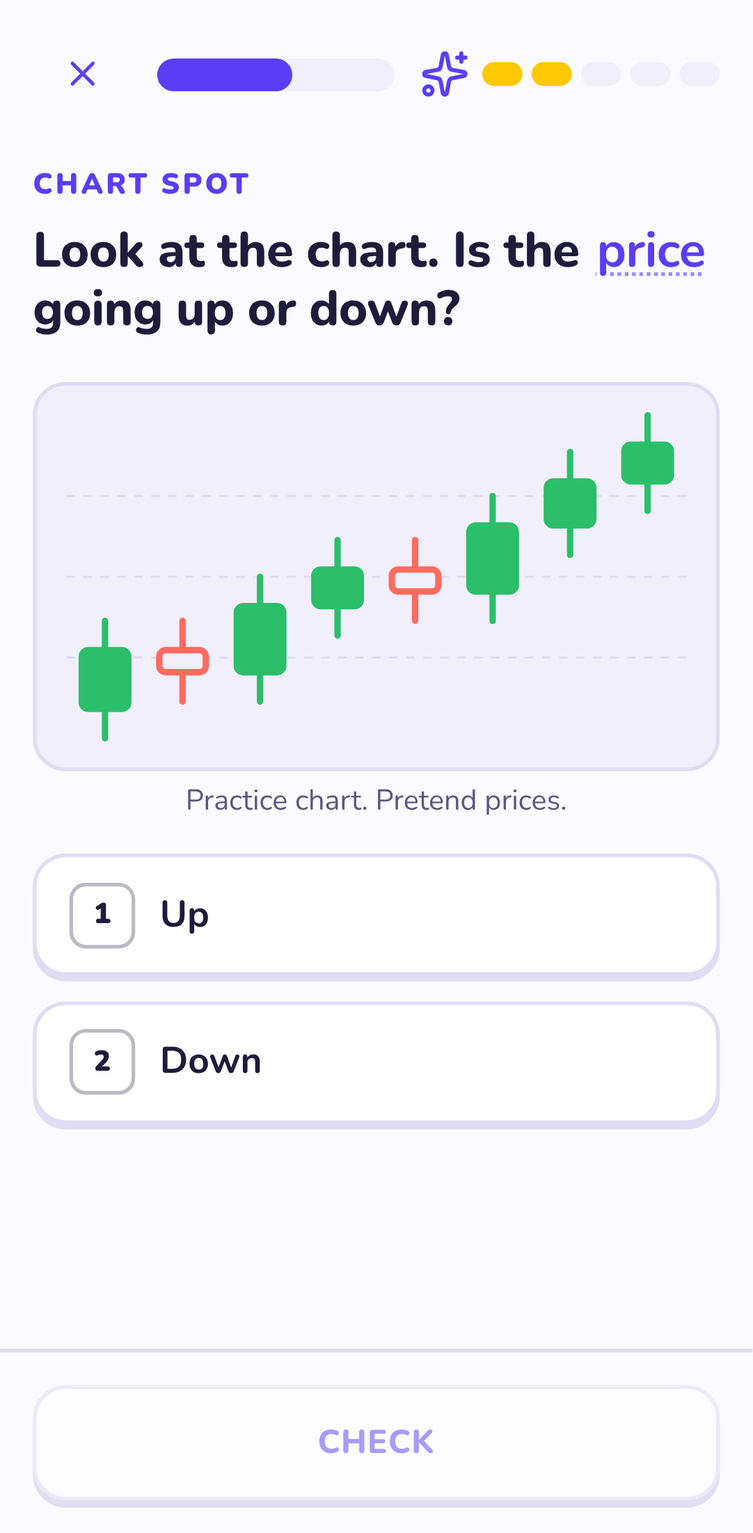
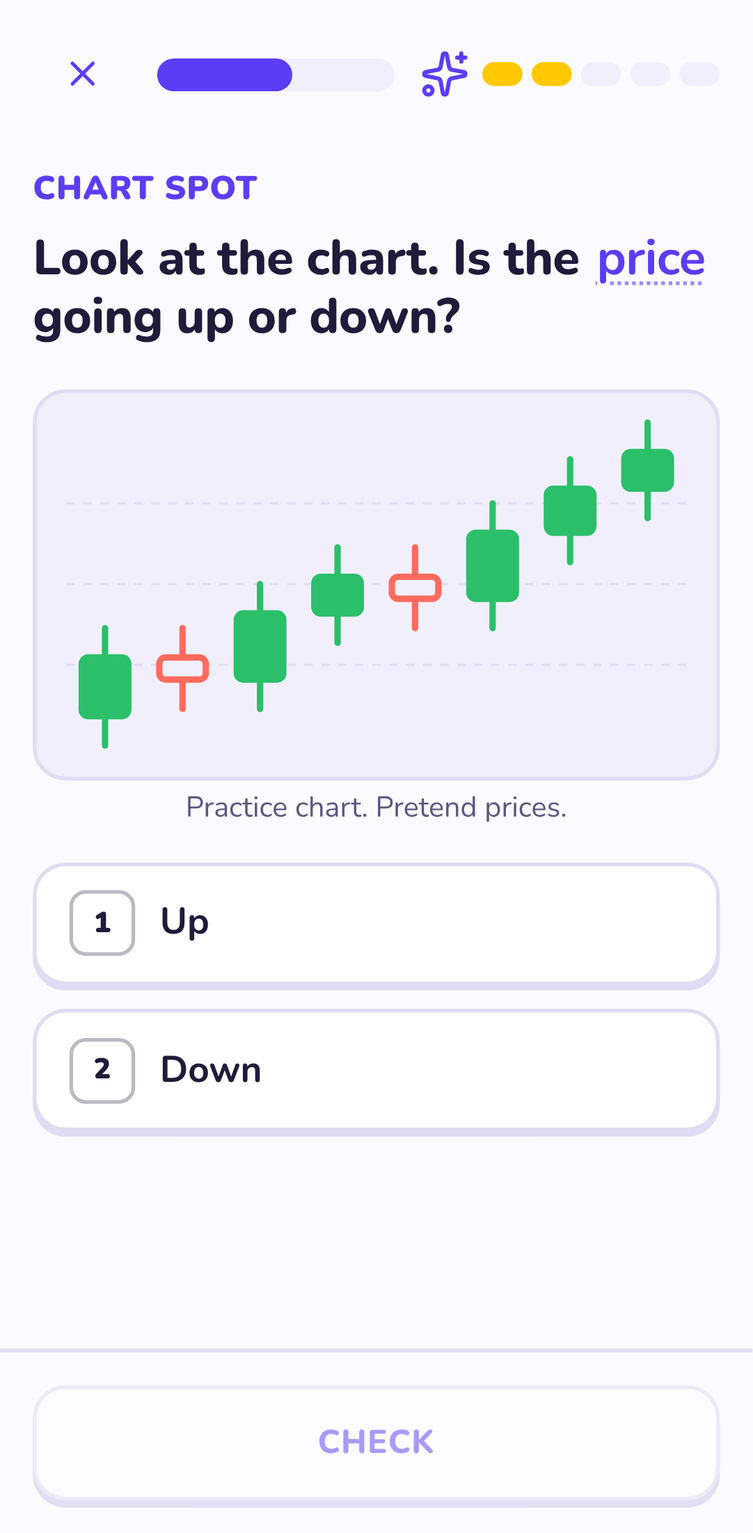
fix(cp1): review fixes, evidence and docs
- Server merges run one at a time; freeze flags are normalised after merging two copies; repair handles them
- Progress bar never moves backwards when a retry is added; question-type label is 18px
- Tap-chart questions capped at 6 candles (schema, audit, canary); Start bubble no longer overlaps
- Taught-in links are 48px tap targets with the period attached
- CP1 evidence in PROGRESS.md, decisions D-020, architecture section 8, refreshed screenshots

Claude-Session: https://claude.ai/code/session_017CWsywmUaWm7ULUuwBmePK

diff --git a/src/lib/progress.test.ts b/src/lib/progress.test.ts
@@ -10,6 +10,7 @@ import {
   longestStreak,
   maybeEarnFreeze,
   mergeProgress,
+  normalizeFreezes,
   sameProgress,
   settleFreezes,
   weekStart,
@@ -248,5 +249,47 @@ describe("dailyGoalFraction / dateKey", () => {
   });
   it("formats local dates", () => {
     expect(dateKey(new Date(2026, 0, 5))).toBe("2026-01-05");
+  });
+});
+
+describe("normalizeFreezes (after merging copies from two devices)", () => {
+  it("a day with XP is never frozen: XP wins", () => {
+    const merged = mergeProgress(
+      {
+        totalXp: 0,
+        days: {
+          "2026-03-10": { xp: 0, lessonsDone: 0, frozen: true },
+          "2026-03-07": { xp: 5, lessonsDone: 1, freezeEarned: true },
+        },
+        nodes: {},
+      },
+      { totalXp: 30, days: { "2026-03-10": { xp: 30, lessonsDone: 2 } }, nodes: {} },
+    );
+    expect(merged.days["2026-03-10"]).toEqual({ xp: 30, lessonsDone: 2 });
+    expect(merged.totalXp).toBe(35);
+  });
+  it("never leaves more frozen days than freezes earned (the latest are released first)", () => {
+    const merged = mergeProgress(
+      {
+        totalXp: 5,
+        days: {
+          "2026-03-07": { xp: 5, lessonsDone: 1, freezeEarned: true },
+          "2026-03-08": { xp: 0, lessonsDone: 0, frozen: true },
+        },
+        nodes: {},
+      },
+      { totalXp: 0, days: { "2026-03-09": { xp: 0, lessonsDone: 0, frozen: true } }, nodes: {} },
+    );
+    expect(freezesHeld(merged.days)).toBe(0);
+    expect(Object.values(merged.days).filter((d) => d.frozen)).toHaveLength(1);
+    expect(merged.days["2026-03-08"]?.frozen).toBe(true);
+    expect(merged.days["2026-03-09"]).toBeUndefined(); // released, and empty, so not recorded
+  });
+  it("leaves consistent data untouched", () => {
+    const days = {
+      "2026-03-07": day(5, { freezeEarned: true }),
+      "2026-03-08": day(0, { frozen: true }),
+    };
+    expect(normalizeFreezes(days)).toEqual(days);
   });
 });

diff --git a/src/lib/progress.ts b/src/lib/progress.ts
@@ -177,6 +177,30 @@ export function maybeEarnFreeze(days: DayMap, today: string): DayMap {
   return { ...days, [today]: { ...day, freezeEarned: true } };
 }
 
+/**
+ * Make freeze flags consistent after combining copies: a day with XP is never "frozen" (XP wins), and no more
+ * days are frozen than freezes were earned (the latest frozen days are released first).
+ */
+export function normalizeFreezes(days: DayMap): DayMap {
+  const out: DayMap = {};
+  for (const [k, d] of Object.entries(days)) {
+    const { frozen, ...rest } = d;
+    out[k] = frozen && d.xp === 0 ? d : rest;
+  }
+  const earned = Object.values(out).filter((d) => d.freezeEarned).length;
+  const frozenKeys = Object.keys(out)
+    .filter((k) => out[k]!.frozen)
+    .sort();
+  for (let extra = frozenKeys.length - earned; extra > 0; extra--) {
+    const k = frozenKeys.pop()!;
+    const { frozen: _released, ...rest } = out[k]!;
+    // A released day with nothing on it is just not recorded.
+    if (rest.xp === 0 && rest.lessonsDone === 0 && !rest.freezeEarned) delete out[k];
+    else out[k] = rest;
+  }
+  return out;
+}
+
 // ── Daily goal and weeks ────────────────────────────────────────────────────
 
 export function dailyGoalFraction(xpToday: number, goal: number): number {
@@ -293,8 +317,9 @@ export function mergeProgress(a: ProgressState, b: ProgressState): ProgressState
     };
   }
 
-  const totalXp = Object.values(days).reduce((sum, d) => sum + d.xp, 0);
-  return { totalXp, days, nodes };
+  const consistent = normalizeFreezes(days);
+  const totalXp = Object.values(consistent).reduce((sum, d) => sum + d.xp, 0);
+  return { totalXp, days: consistent, nodes };
 }
 
 /** Do two copies hold the same progress? (Used to skip pointless sync writes.) */

diff --git a/src/lib/lesson/session.ts b/src/lib/lesson/session.ts
@@ -26,6 +26,8 @@ export interface SessionState {
   focusFills: number;
   /** True for one step after the meter filled (drives the confetti). */
   justFilled: boolean;
+  /** Furthest the progress bar has been. A retry makes the lesson longer, but the bar never goes backwards. */
+  progressMax: number;
 }
 
 export type SessionAction =
@@ -51,14 +53,17 @@ export function startSession(steps: Step[]): SessionState {
     focus: 0,
     focusFills: 0,
     justFilled: false,
+    progressMax: 0,
   };
 }
 
 function advance(s: SessionState): SessionState {
   const index = s.index + 1;
+  const progressMax = Math.max(s.progressMax, s.steps.length === 0 ? 1 : index / s.steps.length);
   return {
     ...s,
     index,
+    progressMax,
     phase: index >= s.steps.length ? "done" : "step",
     last: null,
     justFilled: false,
@@ -139,9 +144,7 @@ export function summarize(s: SessionState): {
   };
 }
 
-/** Progress bar fraction: how far through the steps (retries count as extra steps). */
+/** Progress bar fraction: how far through the steps. It only ever moves forward, even when a retry is added. */
 export function progressFraction(s: SessionState): number {
-  if (s.phase === "done") return 1;
-  const total = s.steps.length;
-  return total === 0 ? 1 : Math.min(1, s.index / total);
+  return s.phase === "done" ? 1 : Math.min(1, s.progressMax);
 }

diff --git a/src/lib/lesson/lesson.test.ts b/src/lib/lesson/lesson.test.ts
@@ -184,6 +184,26 @@ describe("session reducer — unlimited hearts, one retry, Focus meter", () => {
     expect(sessionReducer(s, { type: "submit", answer: { type: "tf", value: true } })).toBe(s); // on a slide
   });
 
+  it("the progress bar never goes backwards, even when a wrong answer adds a retry", () => {
+    let s = startSession(buildSteps([], [mc, tf, match]));
+    const seen: number[] = [progressFraction(s)];
+    s = sessionReducer(s, { type: "submit", answer: { type: "mc", optionId: "b" } });
+    s = sessionReducer(s, { type: "continue" });
+    seen.push(progressFraction(s));
+    // a wrong answer queues a retry, which makes the lesson longer
+    s = sessionReducer(s, { type: "submit", answer: { type: "tf", value: false } });
+    s = sessionReducer(s, { type: "continue" });
+    seen.push(progressFraction(s));
+    s = sessionReducer(s, {
+      type: "submit",
+      answer: { type: "match", links: { p1: "p1", p2: "p2", p3: "p3" } },
+    });
+    s = sessionReducer(s, { type: "continue" });
+    seen.push(progressFraction(s));
+    expect(seen).toEqual([...seen].sort((a, b) => a - b));
+    expect(seen.at(-1)).toBeLessThan(1);
+  });
+
   it("an empty lesson is immediately done; progress runs 0 → 1", () => {
     expect(startSession([]).phase).toBe("done");
     let s = run();

diff --git a/src/server/progress.ts b/src/server/progress.ts
@@ -41,10 +41,26 @@ export async function readProgress(): Promise<ProgressState> {
 const same = (a: unknown, b: unknown) => JSON.stringify(a) === JSON.stringify(b);
 
 /**
+ * One merge at a time. A merge reads the stored rows, combines them in memory and writes them back, so two
+ * overlapping ones (two tabs) could each miss the other's change. Candlo is one local server process, so a
+ * simple queue is enough to keep "progress only grows" true.
+ */
+let queue: Promise<unknown> = Promise.resolve();
+function inOrder<T>(job: () => Promise<T>): Promise<T> {
+  const run = queue.then(job, job);
+  queue = run.catch(() => undefined);
+  return run;
+}
+
+/**
  * Merge incoming progress into what is stored (progress only grows, so this is lossless and
  * order-independent), save only the rows that changed, and return the merged result.
  */
-export async function mergeAndWriteProgress(incoming: ProgressState): Promise<ProgressState> {
+export function mergeAndWriteProgress(incoming: ProgressState): Promise<ProgressState> {
+  return inOrder(() => mergeAndWrite(incoming));
+}
+
+async function mergeAndWrite(incoming: ProgressState): Promise<ProgressState> {
   await ensureUser();
   const stored = await readProgress();
   const merged = mergeProgress(stored, incoming);

diff --git a/src/components/lesson/glossary-context.tsx b/src/components/lesson/glossary-context.tsx
@@ -37,18 +37,20 @@ export function TermCard({ term, lessons }: { term: GlossaryTerm; lessons: Lesso
       </div>
       {where && (
         <p className="flex flex-wrap items-center gap-x-1 text-base text-muted">
-          Taught in{" "}
-          {where.ready ? (
-            <Link
-              href={`/lesson/${term.taughtIn}`}
-              className="inline-flex min-h-12 items-center font-bold text-brand underline underline-offset-4"
-            >
-              {where.title}
-            </Link>
-          ) : (
-            <strong>{where.title}</strong>
-          )}
-          .
+          Taught in
+          <span className="inline-flex items-center">
+            {where.ready ? (
+              <Link
+                href={`/lesson/${term.taughtIn}`}
+                className="inline-flex min-h-12 items-center font-bold text-brand underline underline-offset-4"
+              >
+                {where.title}
+              </Link>
+            ) : (
+              <strong>{where.title}</strong>
+            )}
+            .
+          </span>
         </p>
       )}
     </div>

diff --git a/src/lib/integrity.test.ts b/src/lib/integrity.test.ts
@@ -85,3 +85,20 @@ describe("checkProgress: streak freezes", () => {
     expect(checkProgress(p).map((x) => x.code)).toContain("frozen_with_xp");
   });
 });
+
+describe("repairProgress: freezes", () => {
+  it("repairs a frozen day that has XP and a freeze that was never earned", () => {
+    const broken: ProgressSnapshot = {
+      totalXp: 35,
+      days: {
+        "2026-03-07": { xp: 5, lessonsDone: 1, freezeEarned: true },
+        "2026-03-08": { xp: 30, lessonsDone: 2, frozen: true },
+        "2026-03-09": { xp: 0, lessonsDone: 0, frozen: true },
+        "2026-03-10": { xp: 0, lessonsDone: 0, frozen: true },
+      },
+      nodes: {},
+    };
+    expect(checkProgress(broken).length).toBeGreaterThan(0);
+    expect(checkProgress(repairProgress(broken))).toEqual([]);
+  });
+});

diff --git a/src/lib/lesson/xp.ts b/src/lib/lesson/xp.ts
@@ -37,7 +37,7 @@ export function scoreOf(questionCount: number, firstTryCorrect: number): number 
   return questionCount === 0 ? 100 : Math.round((100 * firstTryCorrect) / questionCount);
 }
 
-/** XP for finishing a step. Repeats are a flat small amount, so reviewing is worth doing but not farmable. */
+/** XP for finishing a step. Repeats are a flat small amount, so reviewing is worth doing (and keeps a streak alive). There is no daily cap yet: XP is the learner's own motivation, not a score (see DECISIONS D-017). */
 export function calcXp(i: XpInput): XpBreakdown {
   if (i.repeat) return { base: REPEAT_XP, accuracy: 0, perfect: 0, focus: 0, total: REPEAT_XP };
   const r = RULES[i.nodeType];

diff --git a/src/components/glossary/glossary-screen.tsx b/src/components/glossary/glossary-screen.tsx
@@ -226,7 +226,10 @@ export function GlossaryScreen({
                   <p className="text-lg">{a.meaning}</p>
                   <p className="text-base text-muted">Example: {a.example}</p>
                   <p className="flex flex-wrap items-center gap-x-1 text-base">
-                    Taught in <TaughtIn nodeId={a.taughtIn} lessons={lessonRefs} />.
+                    Taught in{" "}
+                    <span className="inline-flex items-center">
+                      <TaughtIn nodeId={a.taughtIn} lessons={lessonRefs} />.
+                    </span>
                   </p>
                 </Card>
               </li>

diff --git a/src/lib/integrity.ts b/src/lib/integrity.ts
@@ -1,6 +1,7 @@
 import {
   clampScore,
   NODE_STATUSES,
+  normalizeFreezes,
   type DayMap,
   type NodeRecord,
   type ProgressState,
@@ -109,6 +110,7 @@ export function repairProgress(p: ProgressSnapshot): ProgressSnapshot {
       completedAt: status === "done" ? (n.completedAt ?? new Date(0).toISOString()) : n.completedAt,
     };
   }
-  const totalXp = Object.values(days).reduce((sum, d) => sum + d.xp, 0);
-  return { totalXp, days, nodes };
+  const consistent = normalizeFreezes(days);
+  const totalXp = Object.values(consistent).reduce((sum, d) => sum + d.xp, 0);
+  return { totalXp, days: consistent, nodes };
 }

diff --git a/src/components/lesson/lesson-player.tsx b/src/components/lesson/lesson-player.tsx
@@ -219,7 +219,7 @@ export function LessonPlayer(props: LessonPlayerProps) {
                 data-qid={step.question.id}
               >
                 <div>
-                  <p className="mb-2 text-sm font-black tracking-widest text-brand uppercase">
+                  <p className="mb-2 text-base font-black tracking-wide text-brand uppercase">
                     {TYPE_LABEL[step.question.type]}
                     {step.retry && " · second try"}
                   </p>

diff --git a/PROGRESS.md b/PROGRESS.md
@@ -5,7 +5,7 @@ Legend: ⬜ not started · 🟡 in progress · ✅ done · ⚠ partial
 | CP  | Scope                                    | Status             |
 | --- | ---------------------------------------- | ------------------ |
 | 0   | Foundation                               | ✅                 |
-| 1   | Unit 1 + lesson engine                   | 🟡                 |
+| 1   | Unit 1 + lesson engine                   | ✅ (awaiting “go”) |
 | 2   | Chart School (Unit 2)                    | ⬜                 |
 | 3   | Candlesticks + patterns (Units 3–4)      | ⬜                 |
 | 4   | Trade Lab core                           | ⬜                 |
@@ -14,33 +14,37 @@ Legend: ⬜ not started · 🟡 in progress · ✅ done · ⚠ partial
 | 7   | News, Boss, graduation (Units 7–8)       | ⬜                 |
 | 8   | Polish, a11y, performance                | ⬜                 |
 
-## Agent status (after CP0)
+## Agent status (after CP1)
 
-| Agent                      | Status | Real checks now                                                            | Still stubs (arrive in)                         |
-| -------------------------- | ------ | -------------------------------------------------------------------------- | ----------------------------------------------- |
-| Curriculum Auditor         | 🟠     | outline schema, unique ids, boss per unit, lessons-written count           | reading level, glossary, questions (CP1)        |
-| Financial Accuracy Checker | 🟠     | none                                                                       | indicators CP2, detectors CP3, sim math CP4–5   |
-| Safety & Guardrails        | 🟠     | risk reminder on 4 screens, no “out of hearts” copy, no live-data claims   | Coach red-team, citations (CP6)                 |
-| Pedagogy                   | 🟠     | practice in every unit, practice before boss, units start with a lesson    | objective mapping, one-idea-per-slide, ramp     |
-| Accessibility & UX         | 🟠     | font ≥ 18px, reduced motion, tap targets, contrast (23 pairs × light/dark) | axe on every route (CP8)                        |
-| Performance                | 🟠     | sound asset budget                                                         | Lighthouse, 10k candles, frames, bundle (CP2–8) |
-| Progress & Data Integrity  | 🟠     | SQLite integrity, all tables, user rows, exported-backup consistency       | browser↔DB, journal, restore (CP1–8)            |
-| Orchestrator               | ✅     | runs all, writes reports, release gate, CP0 acceptance from e2e evidence   | other checkpoints' criteria (added per CP)      |
+| Agent                      | Status | Real checks now                                                                                                                                         | Still stubs (arrive in)                         |
+| -------------------------- | ------ | ------------------------------------------------------------------------------------------------------------------------------------------------------- | ----------------------------------------------- |
+| Curriculum Auditor         | 🟠     | content files valid · outline structure · **reading level ≤ grade 2** · **terms defined before use** · answer keys and ids · risk reminder flag · links | (amber only because Units 2–8 are not written)  |
+| Financial Accuracy Checker | 🟠     | none                                                                                                                                                    | indicators CP2, detectors CP3, sim math CP4–5   |
+| Safety & Guardrails        | 🟠     | risk reminder on 6 screens + shared text · no "out of hearts" copy · no live-data claims                                                                | Coach red-team, citations (CP6)                 |
+| Pedagogy                   | 🟠     | outline rules · **one idea per slide** · **every objective has a question** · enough practice · practice/boss pool size                                 | trade-exercise mapping CP4, difficulty ramp CP3 |
+| Accessibility & UX         | 🟠     | font ≥ 18px, reduced motion, tap targets, contrast (23 pairs × light/dark). Axe is also run in e2e on every lesson screen                               | axe agent on every route (CP8)                  |
+| Performance                | 🟠     | sound asset budget                                                                                                                                      | Lighthouse, 10k candles, frames, bundle         |
+| Progress & Data Integrity  | 🟠     | SQLite integrity · tables · user rows · **progress rows consistent** · backup consistency · **browser = database (e2e)**                                | journal CP4, restore CP8                        |
+| Orchestrator               | ✅     | runs all in parallel, writes reports once, release gate, **acceptance criteria from a data file with e2e / file / agent-check evidence**                | other checkpoints' criteria (added per CP)      |
 
-Release gate today: **ready with warnings** (no red; amber = stubs).
+Release gate today: **ready with warnings** (no red; amber = stubs and unwritten units).
 
 ## Canary log (each agent must catch a deliberately broken fixture)
 
-| Agent               | Broken fixtures it must catch                                                                                | Result |
-| ------------------- | ------------------------------------------------------------------------------------------------------------ | ------ |
-| Curriculum Auditor  | unit without boss · duplicate node id · missing field · missing file · invalid JSON                          | ✅ red |
-| Safety & Guardrails | trade screen without risk reminder · “out of hearts” copy · “live data” claim                                | ✅ red |
-| Pedagogy            | unit with no practice · practice only after boss · unit opening with a test                                  | ✅ red |
-| Accessibility & UX  | 14px font · low contrast (light) · low contrast (dark) · no reduced motion · 32px buttons                    | ✅ red |
-| Performance         | 3 MB sound file · no sounds                                                                                  | ✅ red |
-| Data Integrity      | DB missing tables · XP ≠ daily sum · done step without date · corrupt backup · orphan user                   | ✅ red |
-| Orchestrator        | any red → release blocked · crashing agent → red                                                             | ✅     |
-| Financial Accuracy  | **deferred**: no real checks yet; canary added with the first real check in CP2 (indicators) and CP4 (fills) | n/a    |
+| Agent                    | Broken fixtures it must catch                                                                                                                                                                                                                                                                                | Result |
+| ------------------------ | ------------------------------------------------------------------------------------------------------------------------------------------------------------------------------------------------------------------------------------------------------------------------------------------------------------ | ------ |
+| Curriculum Auditor       | unit without boss · duplicate node id · missing field · missing file · invalid JSON                                                                                                                                                                                                                          | ✅ red |
+| Safety & Guardrails      | trade screen without risk reminder · “out of hearts” copy · “live data” claim                                                                                                                                                                                                                                | ✅ red |
+| Pedagogy                 | unit with no practice · practice only after boss · unit opening with a test                                                                                                                                                                                                                                  | ✅ red |
+| Accessibility & UX       | 14px font · low contrast (light) · low contrast (dark) · no reduced motion · 32px buttons                                                                                                                                                                                                                    | ✅ red |
+| Performance              | 3 MB sound file · no sounds                                                                                                                                                                                                                                                                                  | ✅ red |
+| Data Integrity           | DB missing tables · XP ≠ daily sum · done step without date · corrupt backup · orphan user                                                                                                                                                                                                                   | ✅ red |
+| Curriculum Auditor (CP1) | sentence above grade 2 · term used before defined · slide defines a term it never uses · duplicate question id · bad answer key · build block used twice · trading lesson without the risk flag · broken glossary and pool links · invalid schema / JSON / missing content · tap chart with too many candles | ✅ red |
+| Pedagogy (CP1)           | slide over 3 sentences · slide defining too many terms · objective with no question · too few questions · practice step too small                                                                                                                                                                            | ✅ red |
+| Safety (CP1)             | shared risk reminder text no longer says it · screen using `<RiskReminder />` accepted                                                                                                                                                                                                                       | ✅     |
+| Data Integrity (CP1)     | inconsistent progress rows in the database (no date, score > 100, freeze used but never earned) · healthy rows pass                                                                                                                                                                                          | ✅ red |
+| Orchestrator             | any red → release blocked · crashing agent → red                                                                                                                                                                                                                                                             | ✅     |
+| Financial Accuracy       | **deferred**: no real checks yet; canary added with the first real check in CP2 (indicators) and CP4 (fills)                                                                                                                                                                                                 | n/a    |
 
 ## CP0 — Foundation: DONE
 
@@ -61,3 +65,23 @@ Bugs found and fixed by the checks along the way: unit colors failing WCAG contr
 - Security review (`/security-review`): no high-confidence vulnerabilities. Two low-severity hardening notes were fixed anyway: `PUT /api/me` now requires `application/json` + same Origin (a cross-site `text/plain` request needs no CORS preflight), and the agent-runner endpoint only answers on loopback hosts (DNS rebinding) with safe Origin parsing.
 
 Known issues / deferred: see the CP0 report. No lessons exist yet (Unit 1 content is CP1); sounds are synthesized placeholders-in-quality (but real and working); PWA install, backup _restore_, and full a11y/perf budgets are CP8.
+
+## CP1 — Unit 1 and the lesson engine: DONE
+
+Acceptance (BRIEF §9): a learner can finish Unit 1, see XP and streak update, and reopen any lesson. All seven criteria in `agents/orchestrator/criteria.json` are met, each proven by an e2e test or an agent check (see `/admin/health`).
+
+What was built: the lesson engine (teach slides with 15 animated illustrations, multiple choice, true/false, match by tap or drag, chart spot by choice or tap, build), unlimited hearts with the Focus meter and one retry per miss, keyboard shortcuts, sounds, confetti, the results screen (XP breakdown, streak, daily goal, level), treasure chests, glossary highlights in every lesson, the Glossary and Short-words pages, streak freezes, "You vs you" and Trader Ranks (labelled practice rivals), and progress syncing to SQLite. Unit 1 has 11 steps + 1 chest: **45 slides, 57 questions** (27 multiple choice, 14 true/false, 7 match, 5 build, 4 chart), a **51-term glossary** and **44 short words**, all at first-grade reading level.
+
+Evidence (run on 2026-10-13):
+
+- `pnpm check`: typecheck clean, ESLint clean, **225 unit tests pass** (28 files).
+- `pnpm content:check`: 11 lessons, 51 terms, 44 abbreviations, **0 findings**.
+- `pnpm build`: succeeds; 14 lesson routes are prerendered (`/lesson/[nodeId]` first-load JS 238 kB).
+- `pnpm e2e`: **53 passed, 3 skipped, 0 failed** on desktop Chrome and Pixel 7. The skips are viewport-specific tests (phone-only layout checks on desktop, the mouse-drag test on phone). Highlights: **all 12 Unit 1 steps finished in order**; XP equals the XP rules exactly (28 for a perfect first lesson); the streak card and header update; a missed question shows the right answer and the reason, comes back once, never drains Focus, and a lesson with every question missed still finishes and counts; replays give +5 XP and count the step once; progress reaches SQLite, restores on a fresh browser and merges both ways; garbage payloads and cross-site writes are refused; drag, keyboard and chart-by-keyboard work; confetti is off with Reduce motion; the risk reminder shows on trading lessons and not on money/company; axe finds no serious issue on slides, every question type, both feedback states, the term card, results, chest, Glossary and Short words in light and dark on both viewports; phone lessons have no sideways scroll and every tap target is 48px.
+- `pnpm agents:run`: 0 red, 7 amber (stubs and unwritten units only); **CP1 criteria met**.
+- Screenshots in `docs/screenshots/cp1/`.
+- Reviews: `/code-review` (9 findings: fixed the merge race with a server queue, freeze consistency after merging two devices, `repairProgress` for freezes, a progress bar that could move backwards, a 14px label; skipped with reasons the single-digit unit ids, fail-fast content loading, a harmless sync-cleanup race, and a review-XP cap, see D-020). `/security-review`: no high-confidence findings (progress API validation and key regexes, Prisma-only writes, no URL-to-filesystem path, no HTML sinks, content links built from schema-constrained ids).
+
+Bugs found and fixed by the checks along the way: a syllable counter that read "whole" as two syllables; the fragment-grading rule (see D-020); Enter on a chart candle selecting _and_ checking in one press; the in-app Reduce motion setting not reaching the Framer-based animations; the chart picture labelling plain SVG groups (axe); Glossary links 24px tall; the tap chart pushing its answer off a phone screen; the Start bubble overlapping the previous label; Wick's "oops" eyebrows looking angry; a one-pixel sideways overflow while an illustration animated.
+
+Known issues / deferred (also see D-016, D-020): Ask-the-Coach chat and the AI "Why?" explanation (CP6; every question already has an authored explanation); Lightweight Charts (CP2; lessons use a small SVG chart on pretend candles); no daily cap on review XP; sync is last-write-wins for profile/settings and merge-only for progress (a sync registry is deferred until a third section needs it); the Learn page's later units still show their original goals (rewritten when each unit is written); PWA, backup restore and the full per-route axe/Lighthouse budgets are CP8.
